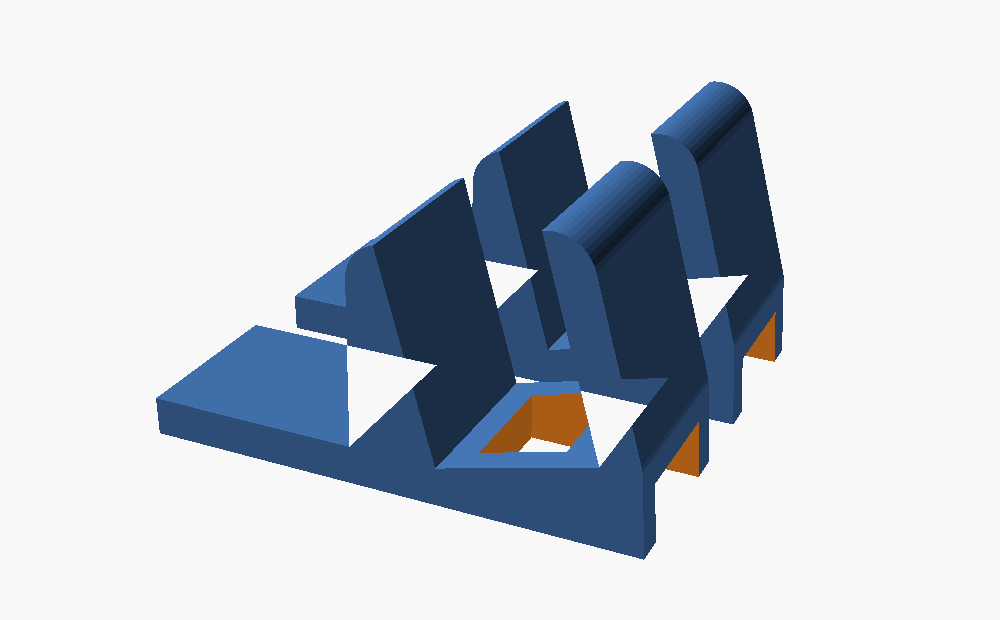
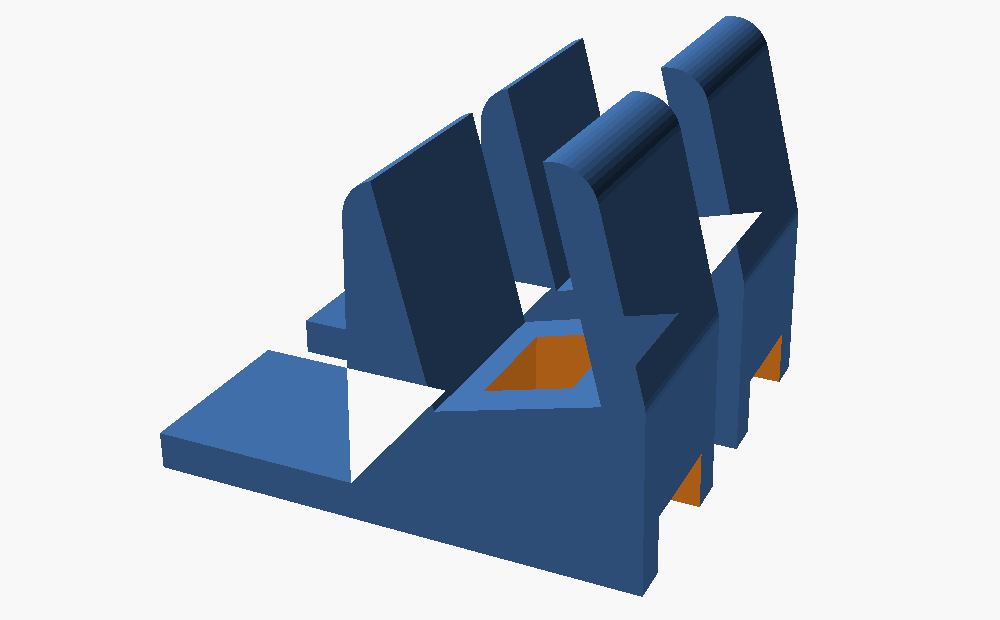
Socle : dessous reglable, pour degager un connecteur encastre
Le dessous de la rainure valait l'epaisseur de paroi, soit 6.1 mm de
degagement sous la tranche de la boite. Une fiche USB-C n'y entre pas.

« Dessous » regle maintenant cette hauteur, tout le socle monte avec,
et le panneau affiche le degagement obtenu a cote des autres cotes :
6.1 par defaut, 16.1 en le portant a 14. On le regle donc directement
sur la fiche qu'on utilise.

Simple yes, une piece par socle.

Changed region(s): [[0.155, 0.0306, 0.806, 0.9806]]

diff --git a/builder.html b/builder.html
@@ -312,6 +312,7 @@
               <div class="rowline"><label>Largeur</label><input type="number" id="standW" min="15" max="120" step="1"><span class="unit">mm</span></div>
               <div class="rowline" title="Sur quelle hauteur la boîte s'enfonce dans la rainure. Plus c'est profond, plus c'est stable."><label>Encastrement</label><input type="number" id="standDepth" min="6" max="60" step="1"><span class="unit">mm</span></div>
               <div class="rowline"><label>Matière autour</label><input type="number" id="standWall" min="2" max="12" step="0.5"><span class="unit">mm</span></div>
+              <div class="rowline" title="Hauteur de matière sous la rainure. C'est elle qui dégage un connecteur posé sur la tranche encastrée — l'USB-C du CYD par exemple. 0 = même valeur que « Matière autour »."><label>Dessous</label><input type="number" id="standUnder" min="0" max="40" step="0.5"><span class="unit">mm</span></div>
               <div class="rowline" title="Canal pour un connecteur qui se trouve sur la tranche encastrée : il passerait sous la rainure et ressortirait devant, au ras de la table. 0 = aucun."><label>Passage câble</label><input type="number" id="standCableW" min="0" max="60" step="1"><span class="unit">mm</span></div>
               <div id="standCableRows" style="display:none">
                 <div class="rowline"><label>Haut. sortie</label><input type="number" id="standCableH" min="2" max="30" step="0.5"><span class="unit">mm</span></div>
@@ -551,6 +552,9 @@ const EN = {
   'Encoche': 'Notch', 'Haut. encoche': 'Notch height', 'Joue': 'Jaw',
   'Queue arrière': 'Rear tail', 'au moins.': 'at least.',
   'Passage câble': 'Cable pass', 'Haut. sortie': 'Exit height', 'Larg. puits': 'Shaft width',
+  'Dessous': 'Underside', 'dessous': 'clear underneath',
+  'Hauteur de matière sous la rainure. C\'est elle qui dégage un connecteur posé sur la tranche encastrée — l\'USB-C du CYD par exemple. 0 = même valeur que « Matière autour ».':
+    'Height of material under the groove. This is what clears a connector sitting on the seated edge — the CYD\'s USB-C for one. 0 = same as “Wall around”.',
   'Deux socles de': 'Two sockets of', 'ne tiennent pas sous une tranche de': 'do not fit under an edge of',
   'Canal pour un connecteur qui se trouve sur la tranche encastrée : il passerait sous la rainure et ressortirait devant, au ras de la table. 0 = aucun.':
     'Channel for a connector sitting on the seated edge: it runs under the groove and comes out at the front, level with the desk. 0 = none.',
@@ -1032,7 +1036,7 @@ const DEFAULT_STATE = () => ({
   holeComp: 0.3, teardrop: true, lidT: 3, floorT: 2, lipH: 7, cornerR: 9,
   stand: false, standAngle: 15, standW: 45, standDepth: 18, standWall: 4,
   standNotchW: 0, standNotchH: 0, standNotchSide: 'front', standTail: 0,
-  standCableW: 0, standCableH: 6, standCableD: 10,
+  standCableW: 0, standCableH: 6, standCableD: 10, standUnder: 0,
   mountTabs: 'none', mountN: 2, panel: 'cut',
   face: 'front', cuts: [], pcbs: [], cells: [], divs: [], comps: [], clips: [], nextId: 1, sel: null,
 });
@@ -2183,7 +2187,8 @@ function standProfileSvg() {
   const wall = state.standWall, depth = state.standDepth;
   const T = state.floorT + state.inner.h + state.lidT + 0.6;   // la rainure
   const od = state.inner.d + 4.8;                              // la boîte
-  const hs = T / 2, by = wall + hs * Math.sin(a);
+  const sous = state.standUnder > 0 ? state.standUnder : wall;
+  const hs = T / 2, by = sous + hs * Math.sin(a);
   const ux = Math.sin(a), uy = Math.cos(a);
   const nx = Math.cos(a), ny = -Math.sin(a);
   const P = (t, u) => [t * nx + u * ux, by + t * ny + u * uy];
@@ -2284,7 +2289,7 @@ function standProfileSvg() {
       ' mm : descends la largeur vers ' + r1((tranche - 14) / 2) + ' mm.'
     : null;
   const xs2 = bloc.concat(queue || []).map(p => p[0]);
-  return { svg: g, h: r1(hb), stable: ok, besoin, large,
+  return { svg: g, h: r1(hb), stable: ok, besoin, large, dessous: by,
            hors: r1(Math.max(...boite.map(p => p[1]))),
            emprise: r1(Math.max(...xs2) - Math.min(...xs2)) };
 }
@@ -2729,6 +2734,7 @@ function buildArgList(part) {
     args.push(`stand_angle=${state.standAngle}`, `stand_w=${state.standW}`,
               `stand_depth=${state.standDepth}`, `stand_wall=${state.standWall}`);
     if (state.standTail > 0) args.push(`stand_tail=${state.standTail}`);
+    if (state.standUnder > 0) args.push(`stand_under=${state.standUnder}`);
     if (state.standCableW > 0)
       args.push(`stand_cable_w=${state.standCableW}`,
                 `stand_cable_h=${state.standCableH}`,
@@ -3376,7 +3382,8 @@ function buildStatic() {
                                  ['standTail', 'standTail', 0],
                                  ['standCableW', 'standCableW', 0],
                                  ['standCableH', 'standCableH', 2],
-                                 ['standCableD', 'standCableD', 4]])
+                                 ['standCableD', 'standCableD', 4],
+                                 ['standUnder', 'standUnder', 0]])
     $(id).addEventListener('input', () => {
       const v = parseFloat($(id).value);
       if (!isNaN(v) && v >= mini) { pushHistory(cle); state[cle] = v; updateAll(); }
@@ -3551,16 +3558,18 @@ function updateAll(withInspector = true) {
   $('standRows').style.display = state.stand ? '' : 'none';
   for (const cle of ['standAngle', 'standW', 'standDepth', 'standWall',
                      'standNotchW', 'standNotchH', 'standTail',
-                     'standCableW', 'standCableH', 'standCableD'])
+                     'standCableW', 'standCableH', 'standCableD', 'standUnder'])
     if (document.activeElement !== $(cle)) $(cle).value = state[cle];
   $('standNotchSide').value = state.standNotchSide;
   $('standNotchRows').style.display = state.standNotchW > 0 ? '' : 'none';
   $('standCableRows').style.display = state.standCableW > 0 ? '' : 'none';
   if (state.stand) {
     const pr = standProfileSvg();
+    const by0 = pr.dessous;
     $('standNote').innerHTML = pr.svg +
       `<div style="margin-top:4px">${t('Socle haut de')} ${pr.h} mm · ` +
-      `${t('emprise')} ${pr.emprise} mm · ${t('écran à')} ${pr.hors} mm</div>` +
+      `${t('emprise')} ${pr.emprise} mm · ${t('écran à')} ${pr.hors} mm · ` +
+      `${t('dessous')} ${r1(by0)} mm</div>` +
       (pr.stable ? '' :
         `<div style="margin-top:5px;color:var(--danger)">` +
         `${t('Le centre de gravité passe derrière l\'assise : ça bascule. Queue arrière de')} ` +

diff --git a/docs/Elements-Reference.md b/docs/Elements-Reference.md
@@ -386,6 +386,13 @@ socket fits; what changes is *Width*, which must let **two** sockets
 sit under the edge the box stands on. The panel says so in red with
 the width to use when they would not fit.
 
+**Underside.** How much material sits under the groove — and so how
+much room is left beneath the box's seated edge. It defaults to
+*Wall around*, which leaves only about 6 mm: not enough for a USB-C
+plug. Raise it and the whole socket rises with it; the panel prints
+the resulting clearance next to the other figures, so you can dial it
+straight to the plug you use.
+
 **Cable pass.** A connector on the seated edge — the CYD's USB-C sits
 right there — would be buried in the groove. *Cable pass* cuts a
 channel that drops under the groove and comes out at the front, level
